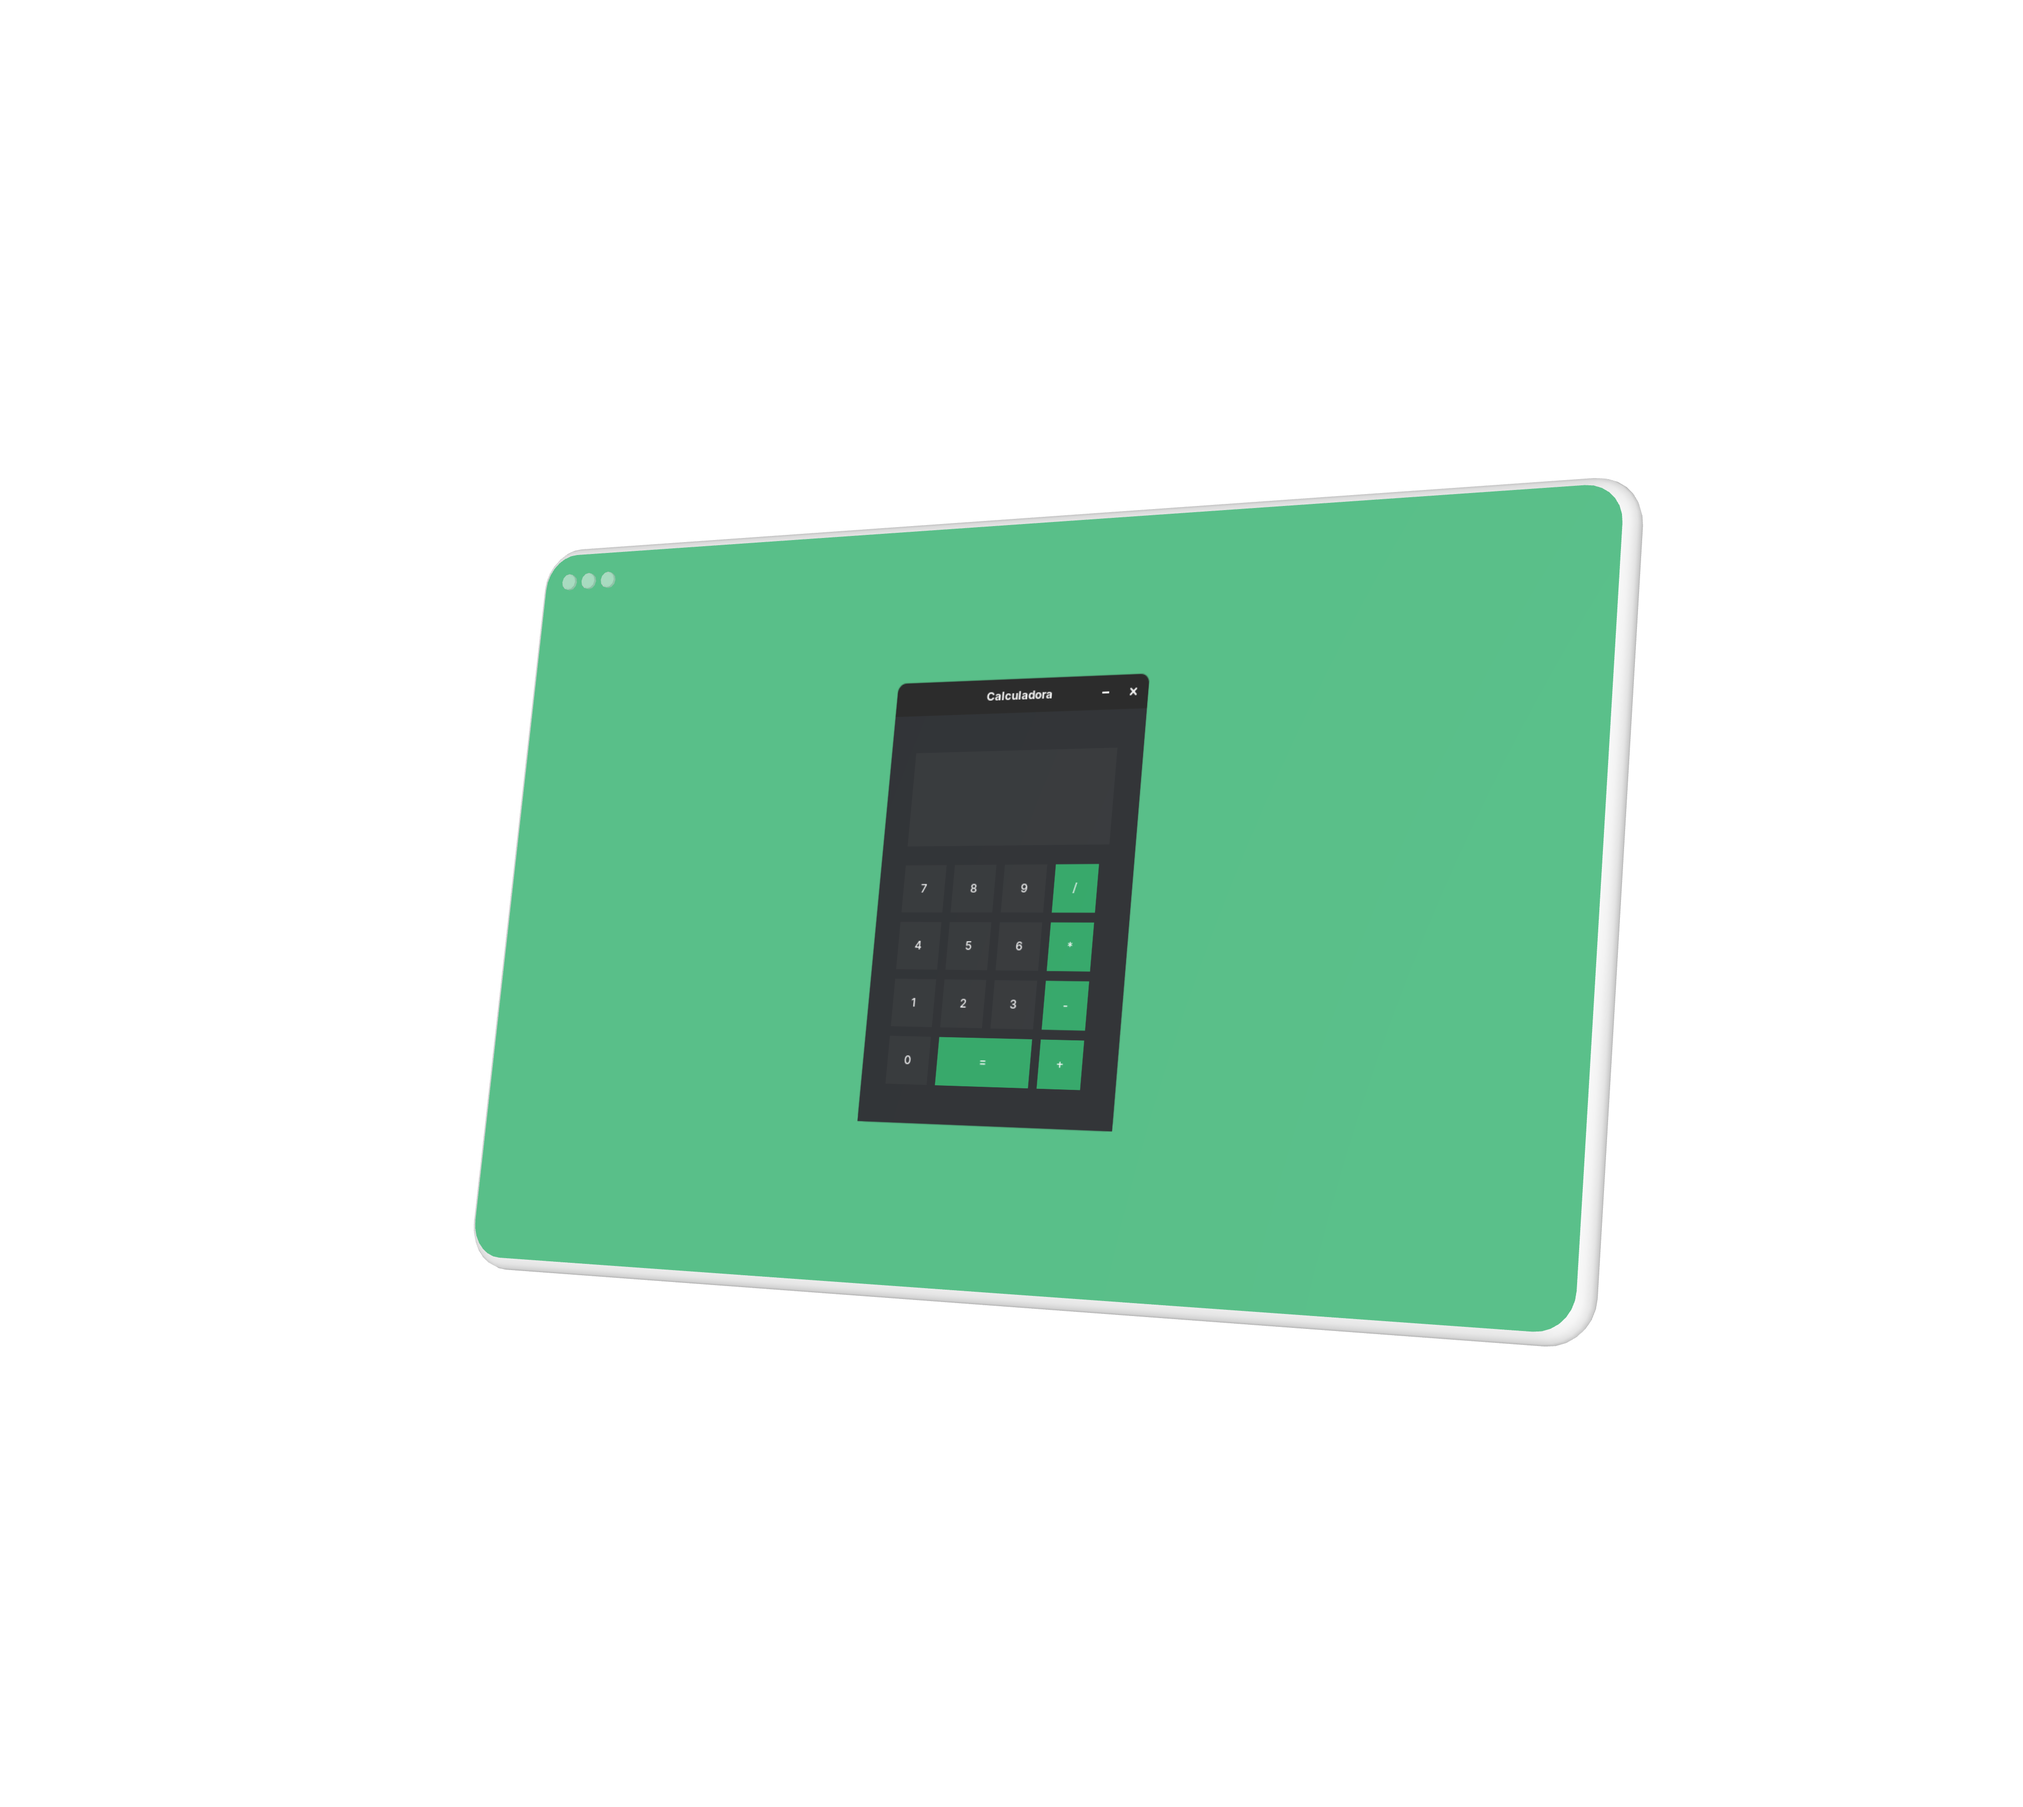
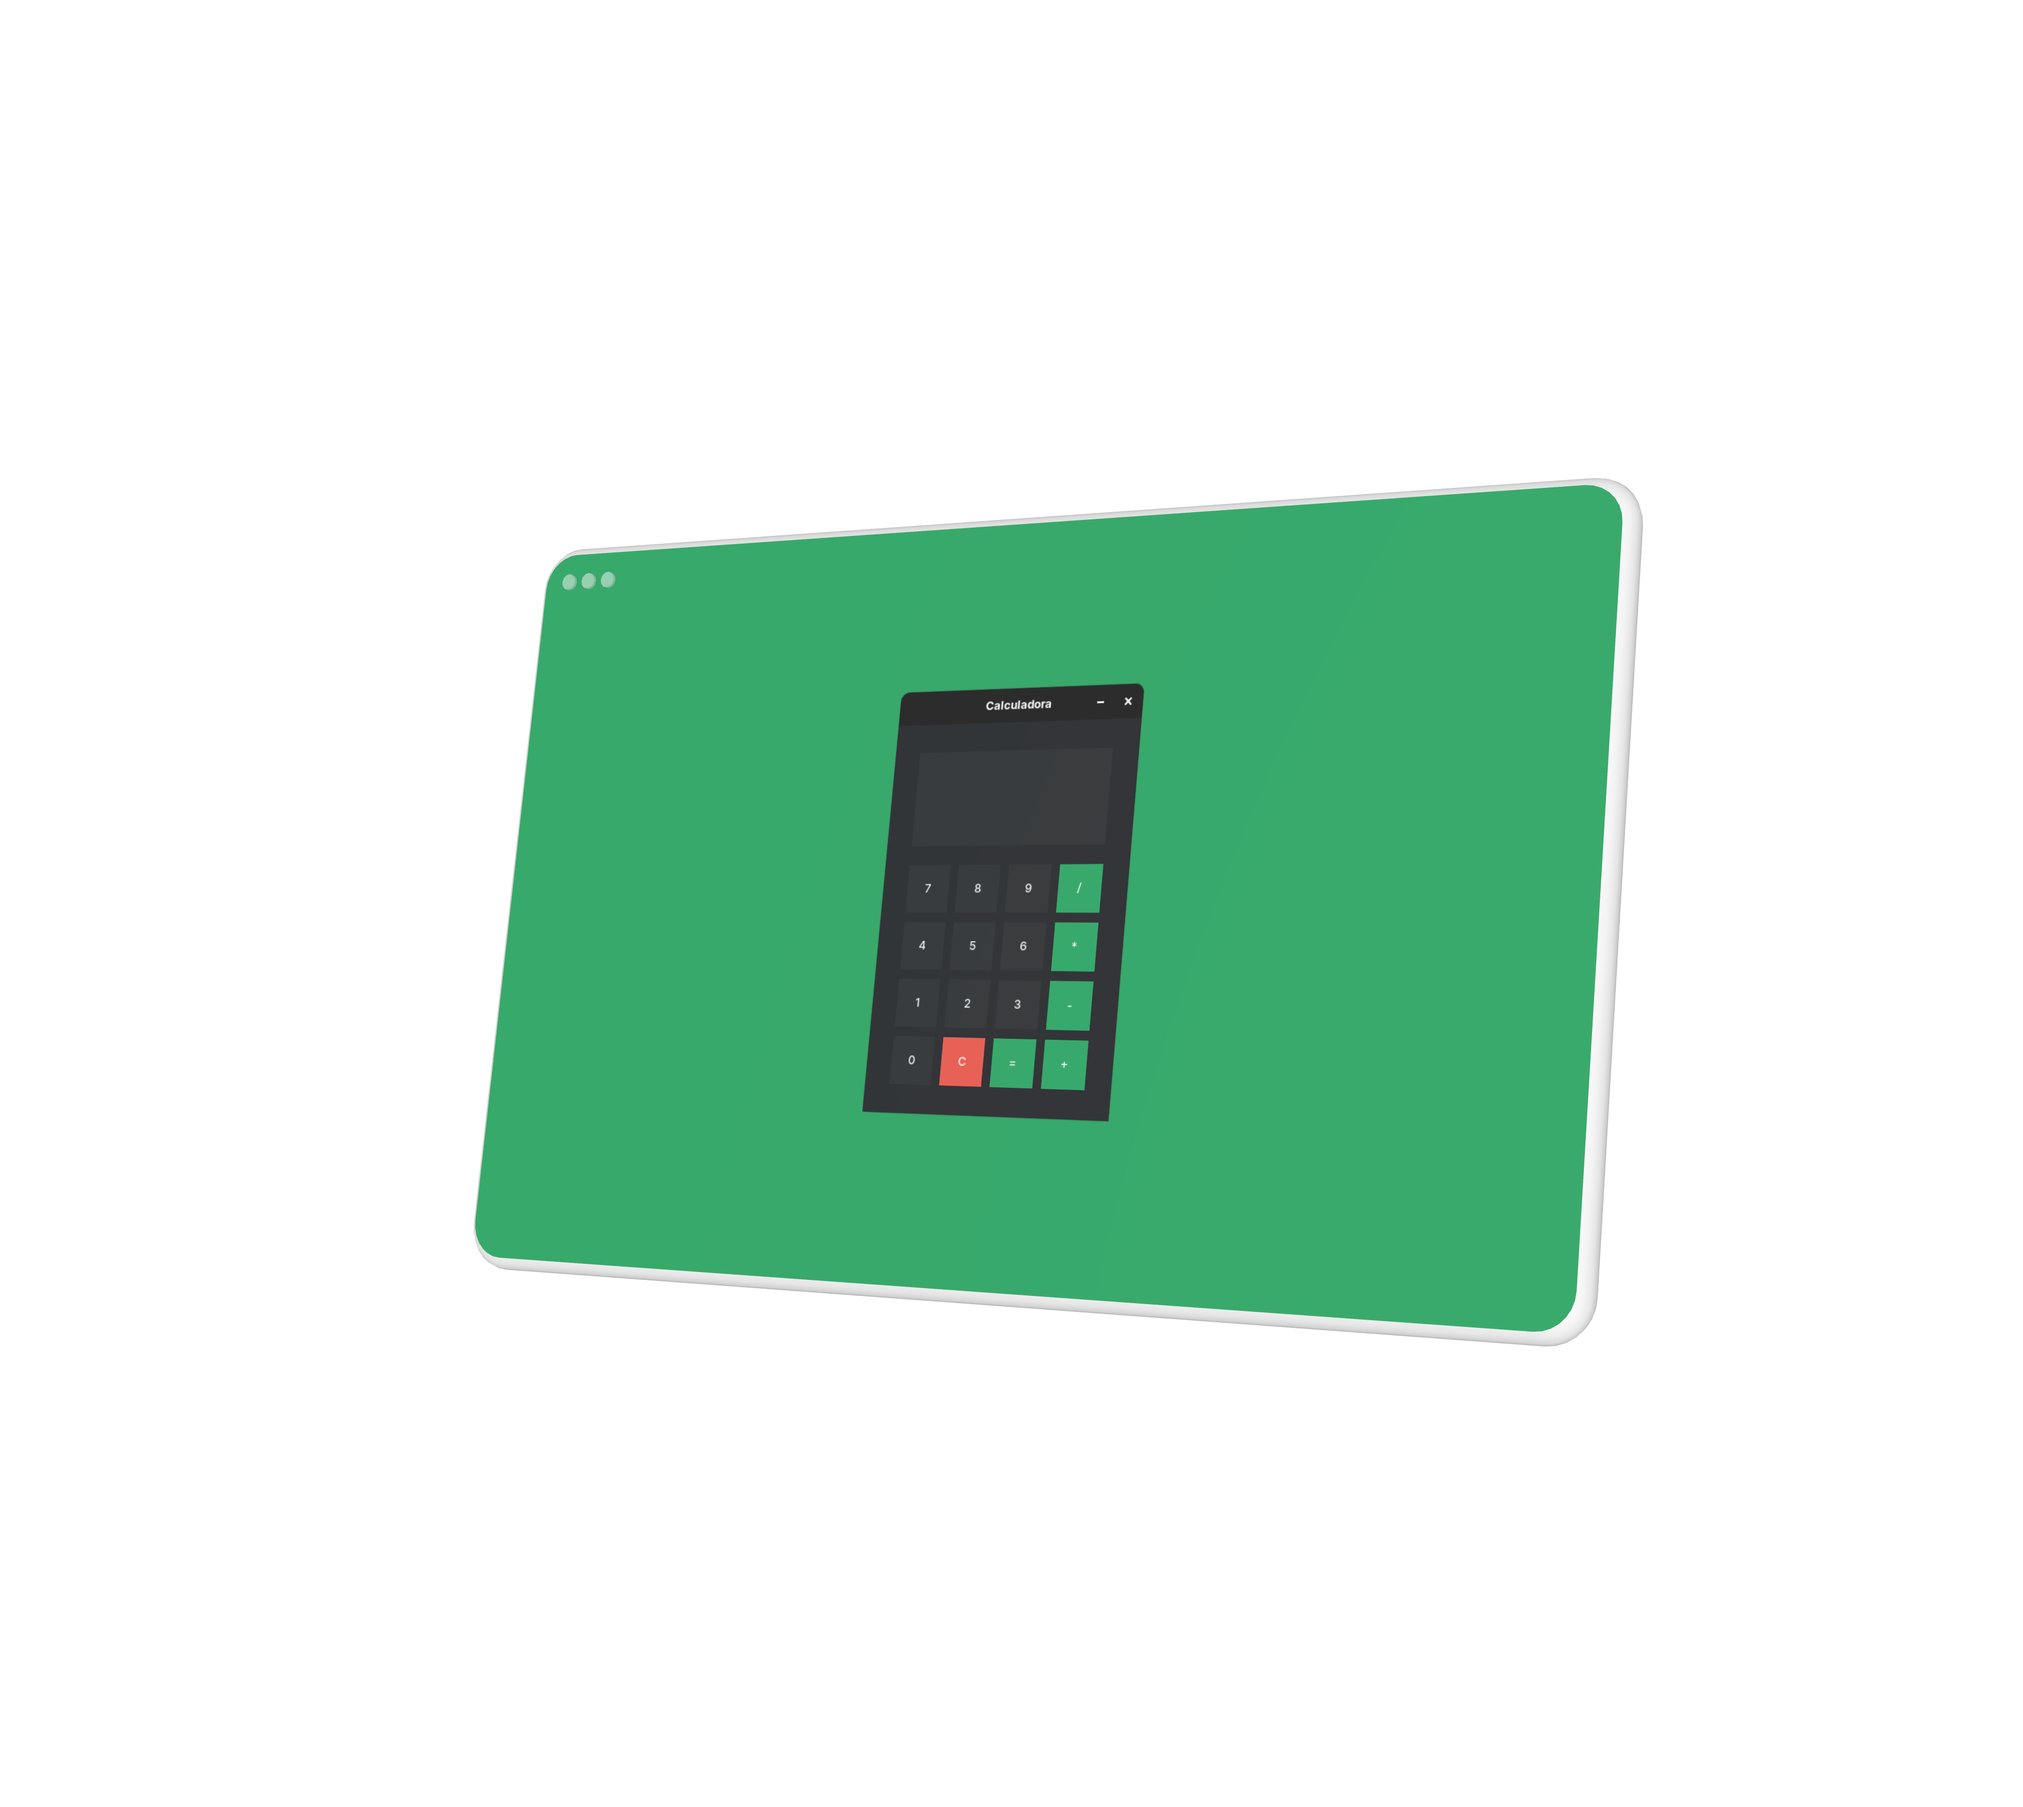
:sparkles: Operadores novos.

Changed region(s): [[0.2179, 0.2491, 0.8092, 0.7474]]

diff --git a/main.py b/main.py
@@ -1,7 +1,7 @@
 import tkinter as tk
 
-botoes_numeros = [(1, 30, 280), (2, 90, 280), (3, 150, 280), (4, 30, 220), (5, 90, 220), (6, 150, 220), (7, 30, 160), (8, 90, 160), (9, 150, 160), (0, 30, 340)]
-botoes_operadores = [("/", 160), ("*", 220), ("-", 280), ("+", 340)]
+botoes_numeros = [(1, 30, 270), (2, 90, 270), (3, 150, 270), (4, 30, 210), (5, 90, 210), (6, 150, 210), (7, 30, 150), (8, 90, 150), (9, 150, 150), (0, 30, 330)]
+botoes_operadores = [("/", 210, 150), ("*", 210, 210), ("-", 210, 270), ("+", 210, 330), ("=", 150, 330), ("C", 90, 330)]
 calculo = str()
 
 # Funções.
@@ -17,19 +17,28 @@ def adicionar_operador(operador: str):
 
 def calcular():
     global calculo
-    texto_resultado.config(text=round(eval(calculo), 2))
+    try:
+        resultado = round(eval(calculo), 2)
+    except Exception:
+        resultado = "Erro"
+    texto_resultado.config(text=resultado)
+
+def limpar():
+    global calculo
     calculo = ""
+    texto_calculo.config(text="")
+    texto_resultado .config(text="")
 
 # Configuração da Janela.
 janela = tk.Tk()
 janela.title("Calculadora")
-janela.geometry("300x430")
+janela.geometry("290x410")
 janela.resizable(False, False)
 janela.configure(background="#292c30")
 
 # Frame da Tela.
 tela = tk.Frame(janela, background="#323538", relief="flat")
-tela.place(x=30, y=40, width=240, height=100)
+tela.place(x=30, y=30, width=230, height=100)
 
 # Texto do Calculo.
 texto_calculo = tk.Label(tela, text="", font=("Inter", 12, "bold"), foreground="#767b80", background="#323538", anchor="e")
@@ -45,13 +54,15 @@ for (numero, x, y) in botoes_numeros:
     botao.place(x=x, y=y, width=50, height=50)
 
 # Loop Operadores.
-for (operador, y) in botoes_operadores:
-    botao = tk.Button(janela, text=f"{operador}", font=("Inter", 10, "normal"), background="#30ad6b", foreground="#ffffff", relief="flat", highlightthickness=0, command=lambda ope=operador: adicionar_operador(f" {ope} "))
-    botao.place(x=210, y=y, width=50, height=50)
-
-# Botão de Igual.
-botao = tk.Button(janela, text="=", font=("Inter", 10, "normal"), background="#30ad6b", foreground="#ffffff", relief="flat", highlightthickness=0, command=calcular)
-botao.place(x=90, y=340, width=110, height=50)
+for (operador, x, y) in botoes_operadores:
+    botao = tk.Button(janela, text=f"{operador}", font=("Inter", 10, "normal"), background="#30ad6b", foreground="#ffffff", relief="flat", highlightthickness=0)
+    if operador == "=":
+        botao.config(command=calcular)
+    elif operador == "C":
+        botao.config(command=limpar, background="#ee6055")
+    else:
+        botao.config(command=lambda ope=operador: adicionar_operador(f" {ope} "))
+    botao.place(x=x, y=y, width=50, height=50)
 
 # Mainloop.
 janela.mainloop()
